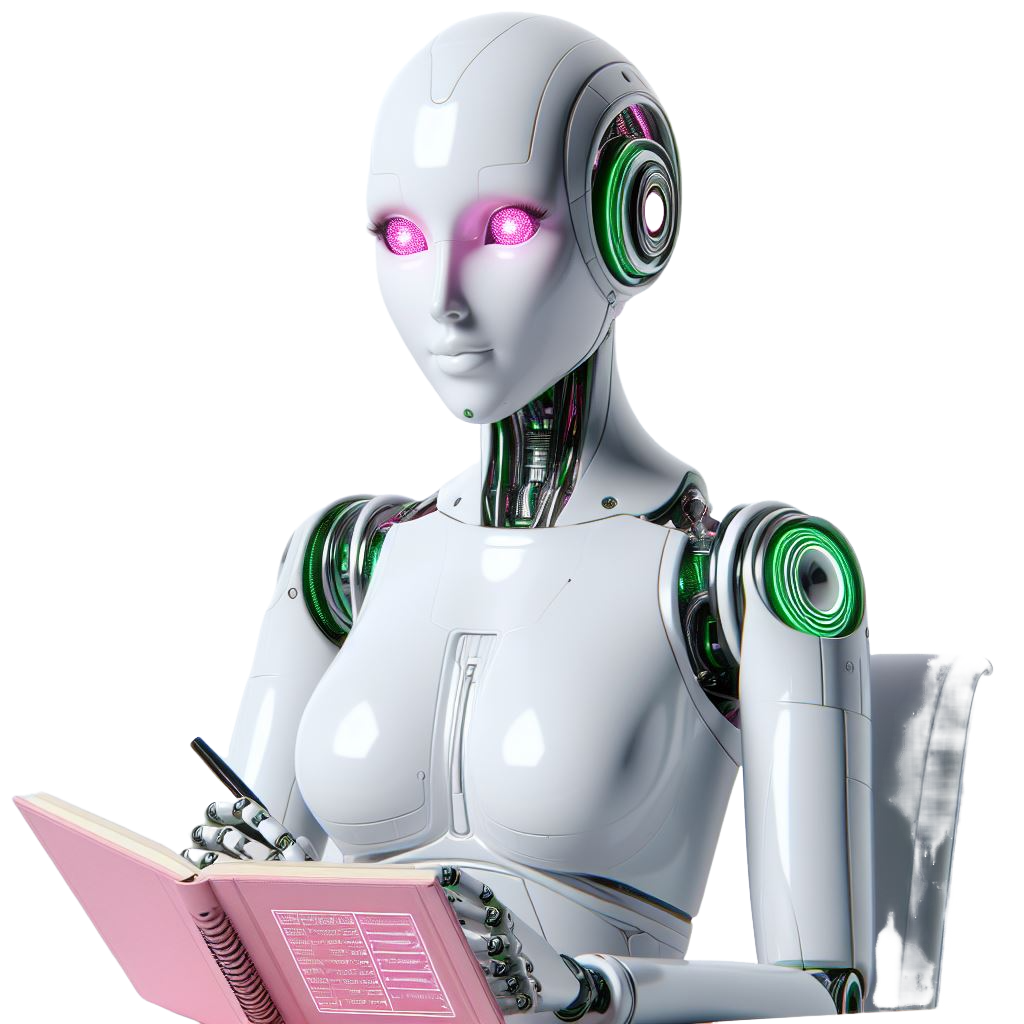
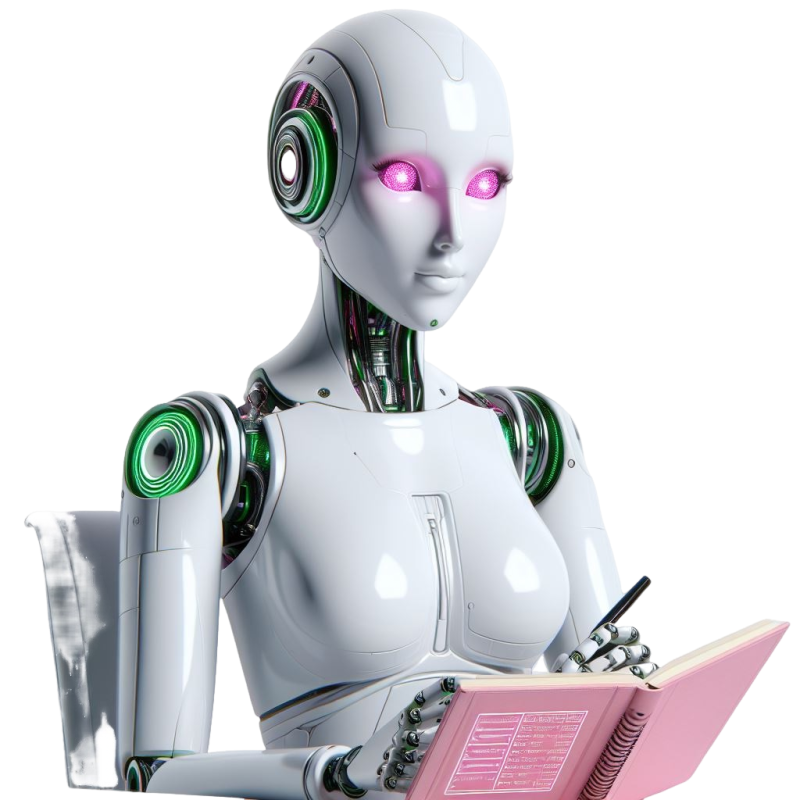
subindo modificações

diff --git a/index.html b/index.html
@@ -26,10 +26,10 @@
         </nav>
 
     </header>
-    <br><br><br><br>
+
     <h1><img src="favicon/4151901.png" alt=" logotipo da Papo Dev, que representa a tecnologia" width="32" height="32">
         Papo Dev</h1>
-    <figure class="image-container">
+    <figure class="image-container2">
         <img src="img/PapoDev.jpg" alt="Imagem que representa a pagina Papo Dev">
 
     </figure>
@@ -41,7 +41,7 @@
         <a href="http://127.0.0.1:5500/ProjetoInteligenciaArtificial/index.html">Leia mais</a>
 
     </button>
-    <br>
+
     <figure class="image-container">
         <img src="img/ImagemDeAlessandraBarbosa.png" alt="Imagem que representa a Inteligência artificial">
 

diff --git a/css/style.css b/css/style.css
@@ -23,7 +23,7 @@ p {
     justify-content: center;
     align-items: center;
     height: 100vh;
-    float: right;
+    float: left;
 }
 
 img {
@@ -62,8 +62,25 @@ img {
 }
 
 .image-container img {
+    width: 350px;
+    height: 350px;
+}
+
+.image-container2 img {
+
+    float: right;
     width: 500px;
-    height: 500px;
+    margin-left: 40px;
+    margin-right: 30px;
+}
+
+.image-container2 img {
+    margin-bottom: 20px;
+}
+
+h1,
+p {
+    margin-top: 100px;
 }
 
 .btn a {
